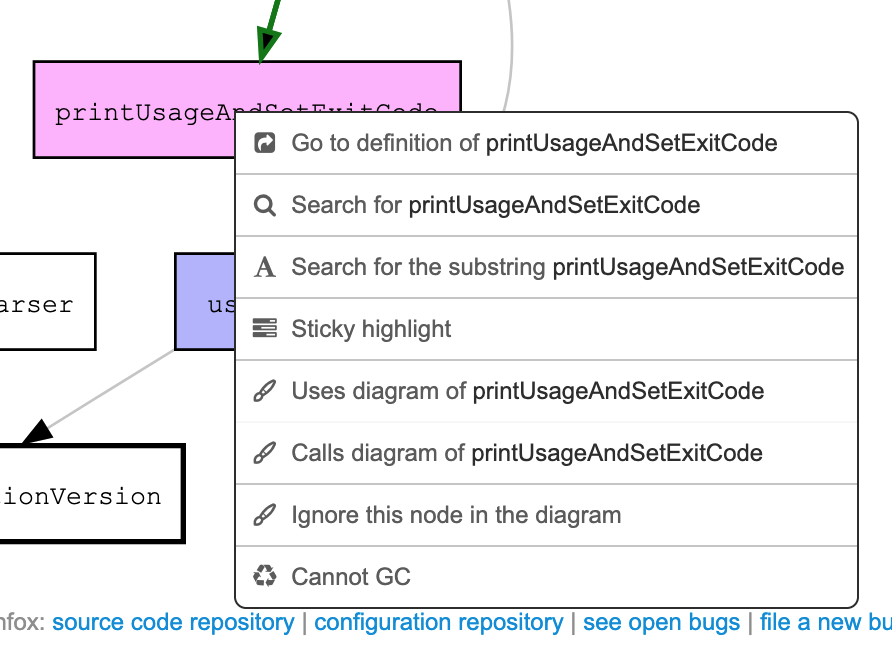
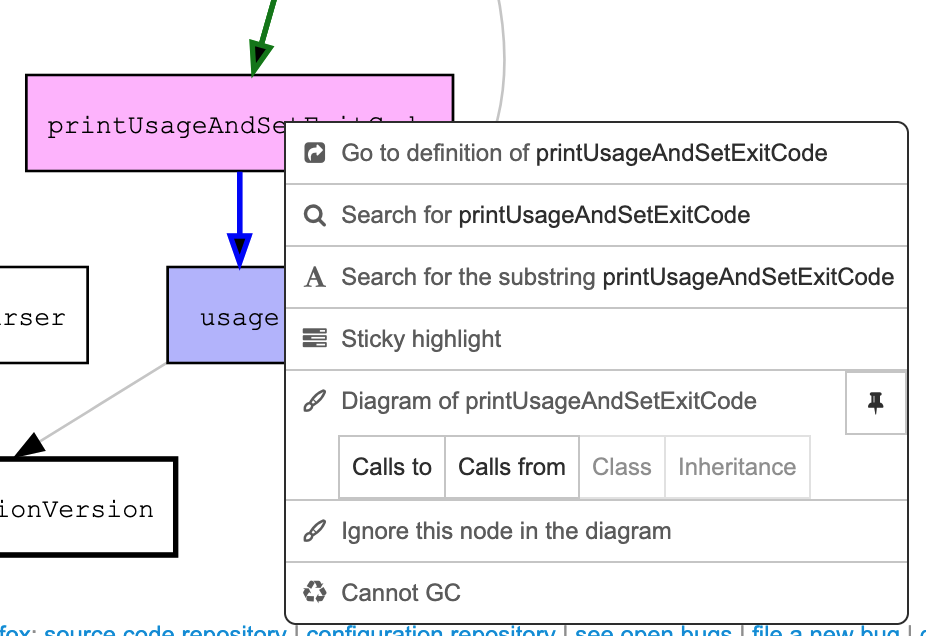
Bug 2015824 - Part 4: Update diagramming document. r=asuth
Differential Revision: https://phabricator.services.mozilla.com/D288891

Changed region(s): [[0.0, 0.0, 1.0, 1.0], [0.0, 0.3585, 0.1211, 0.5676], [0.0, 0.5676, 0.0908, 0.5975]]

diff --git a/docs/contributing/searchfox/diagramming.rst b/docs/contributing/searchfox/diagramming.rst
@@ -25,29 +25,51 @@ accessibility tree and are considered alpha quality.
 .. image:: img/diagramming.png
     :class: border
     :alt: The diagramming feature
-    :width: 573px
+    :width: 538px
 
 .. _searchfox_diagramming_context_menu:
 
 Context Menu
 ------------
 
-.. image:: img/context-menu-layout.png
+.. image:: img/context-menu-diagram.png
     :class: border
-    :alt: The context menu for classes
-    :width: 448px
+    :alt: The context menu for diagramming
+    :width: 433px
 
-Uses diagram of ...
-  Open a diagram that shows how given field is used.
+Calls to
+  Open a diagram that shows how given symbol is called or used.
 
-Calls diagram of ...
-  Open a diagram that shows how given function is called.
+Calls from
+  Open a diagram that shows how given symbol uses other functions
 
-Class diagram of ...
+Class
   Open a diagram that shows given class and its fields, the hierarchy, etc.
 
-Inheritance diagram of ...
+Inheritance
   Open a diagram that shows the class hierarchy of given class.
+
+Pin icon
+  Pin the symbol, to create a diagram between two symbols.
+
+.. image:: img/context-menu-diagram-pin.png
+    :class: border
+    :alt: The context menu for diagramming with pinned item
+    :width: 413px
+
+When a symbol is pinned, another row of buttons are shown.
+
+Calls from Pin to
+  Open a diagram that shows the paths from the pinned symbol to the clicked symbol
+
+Calls to Pin from
+  Open a diagram that shows the paths from the clicked symbol to the pinned symbol
+
+Calls between
+  Open a diagram that shows the paths between the clicked symbol and the pinned symbol, for both directions
+
+Trash icon
+  Remove the pinned symbol
 
 Context Menu for nodes
 ^^^^^^^^^^^^^^^^^^^^^^
@@ -55,7 +77,7 @@ Context Menu for nodes
 .. image:: img/diagramming-menu-node.png
     :class: border
     :alt: The context menu for nodes
-    :width: 446px
+    :width: 463px
 
 Ignore this node in the diagram
   Re-generate the diagram, ignoring the specified node.
@@ -167,6 +189,26 @@ Format
 
 Debug
   When checked, show the debug log.
+
+Icons
+-----
+
+To reduce the server load, the diagramming feature has several limitation,
+and when it hits the limit, icons are shown for each node.
+
+Clicking the icon shows a menu to lift the limit if possible.
+See also the controls section above.
+
+.. image:: img/diagramming-icons.png
+    :class: border
+    :alt: The control panel
+    :width: 296px
+
+Circle with "!"
+  This node hits the depth limit.
+
+Triangle with "!"
+  This node hits other limit, such as node limit, path limit.
 
 Queries
 -------

diff --git a/docs/contributing/searchfox/context_menu.rst b/docs/contributing/searchfox/context_menu.rst
@@ -121,25 +121,6 @@ See :ref:`diagramming <searchfox_diagramming>` document for more details..
 
 For functions, classes, methods, and fields, Searchfox can show the diagram of how they're used, called, or related.
 
-These items are behind the alpha feature gate "Diagramming".
-
-Uses diagram of ...
-  Open a diagram that shows how given field is used.
-
-Calls diagram of ...
-  Open a diagram that shows how given function is called.
-
-Class diagram of ...
-  Open a diagram that shows given class and its fields, the hierarchy, etc.
-
-Inheritance diagram of ...
-  Open a diagram that shows the class hierarchy of given class.
-
-Go to use of ...
-  Open the use site of the function shown as the edge in the diagram.
-
-  This item is shown for the uses diagram's edge.
-
 GC analysis
 -----------
 
